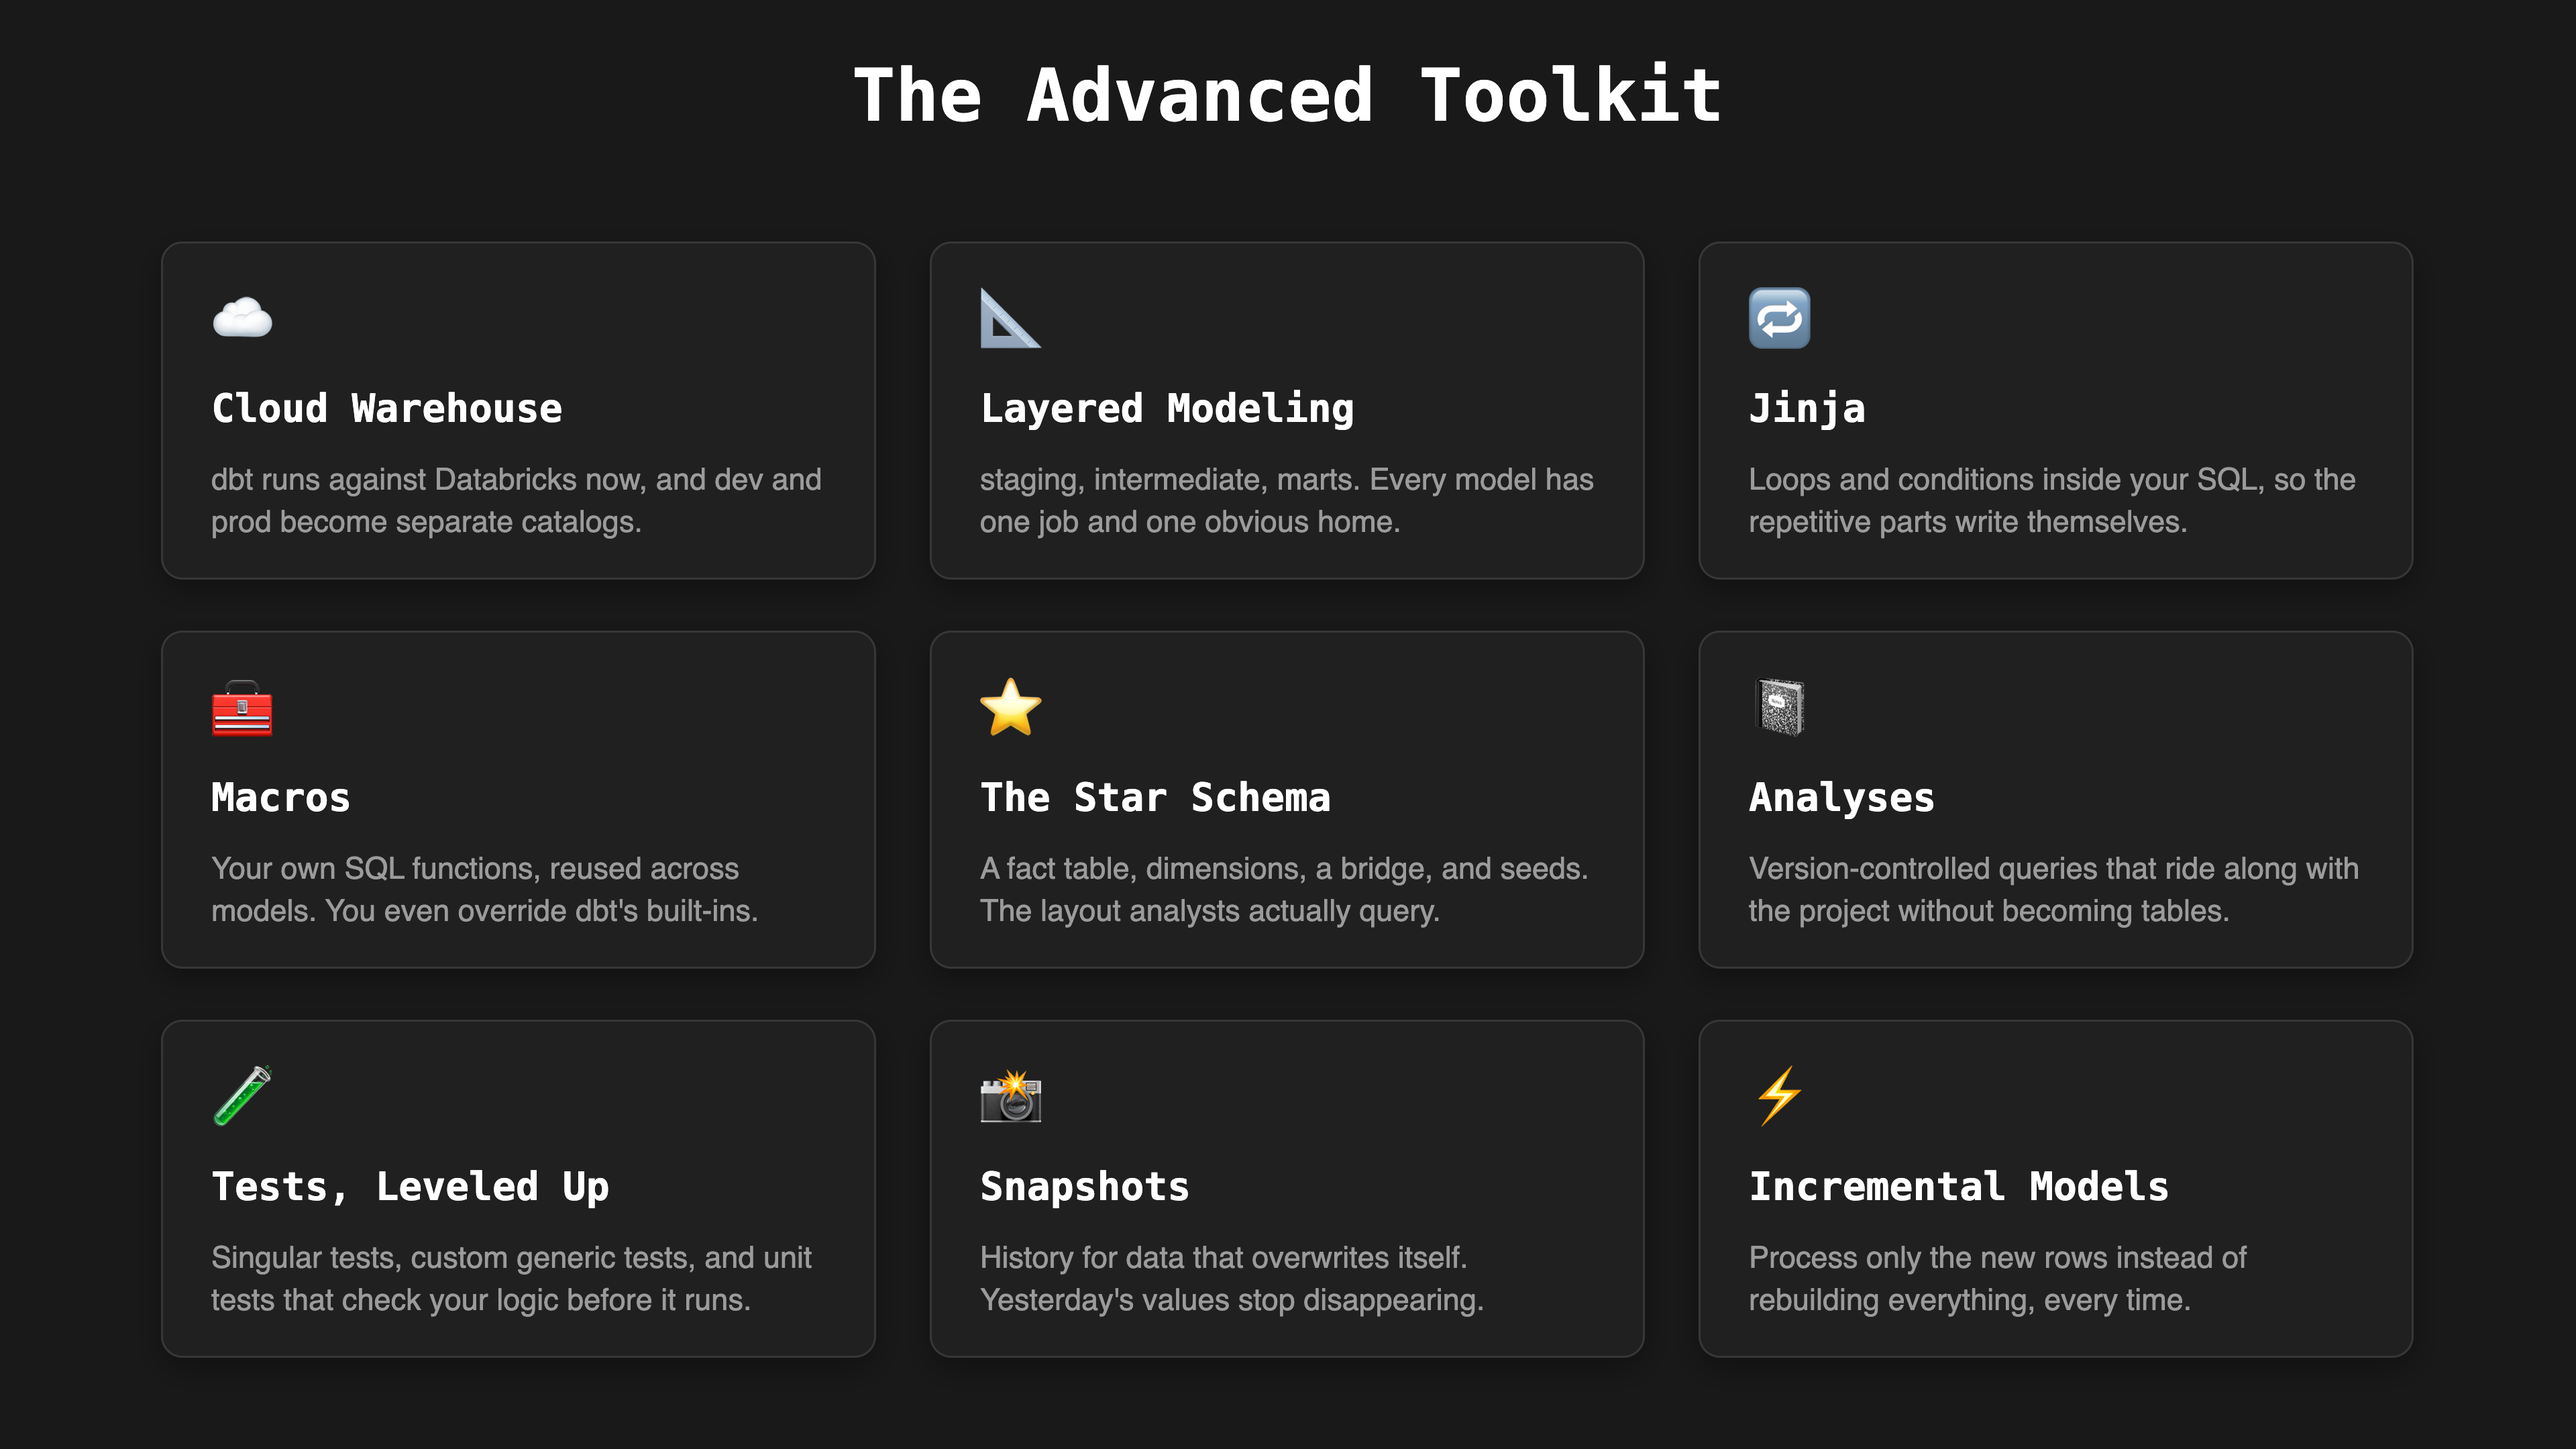
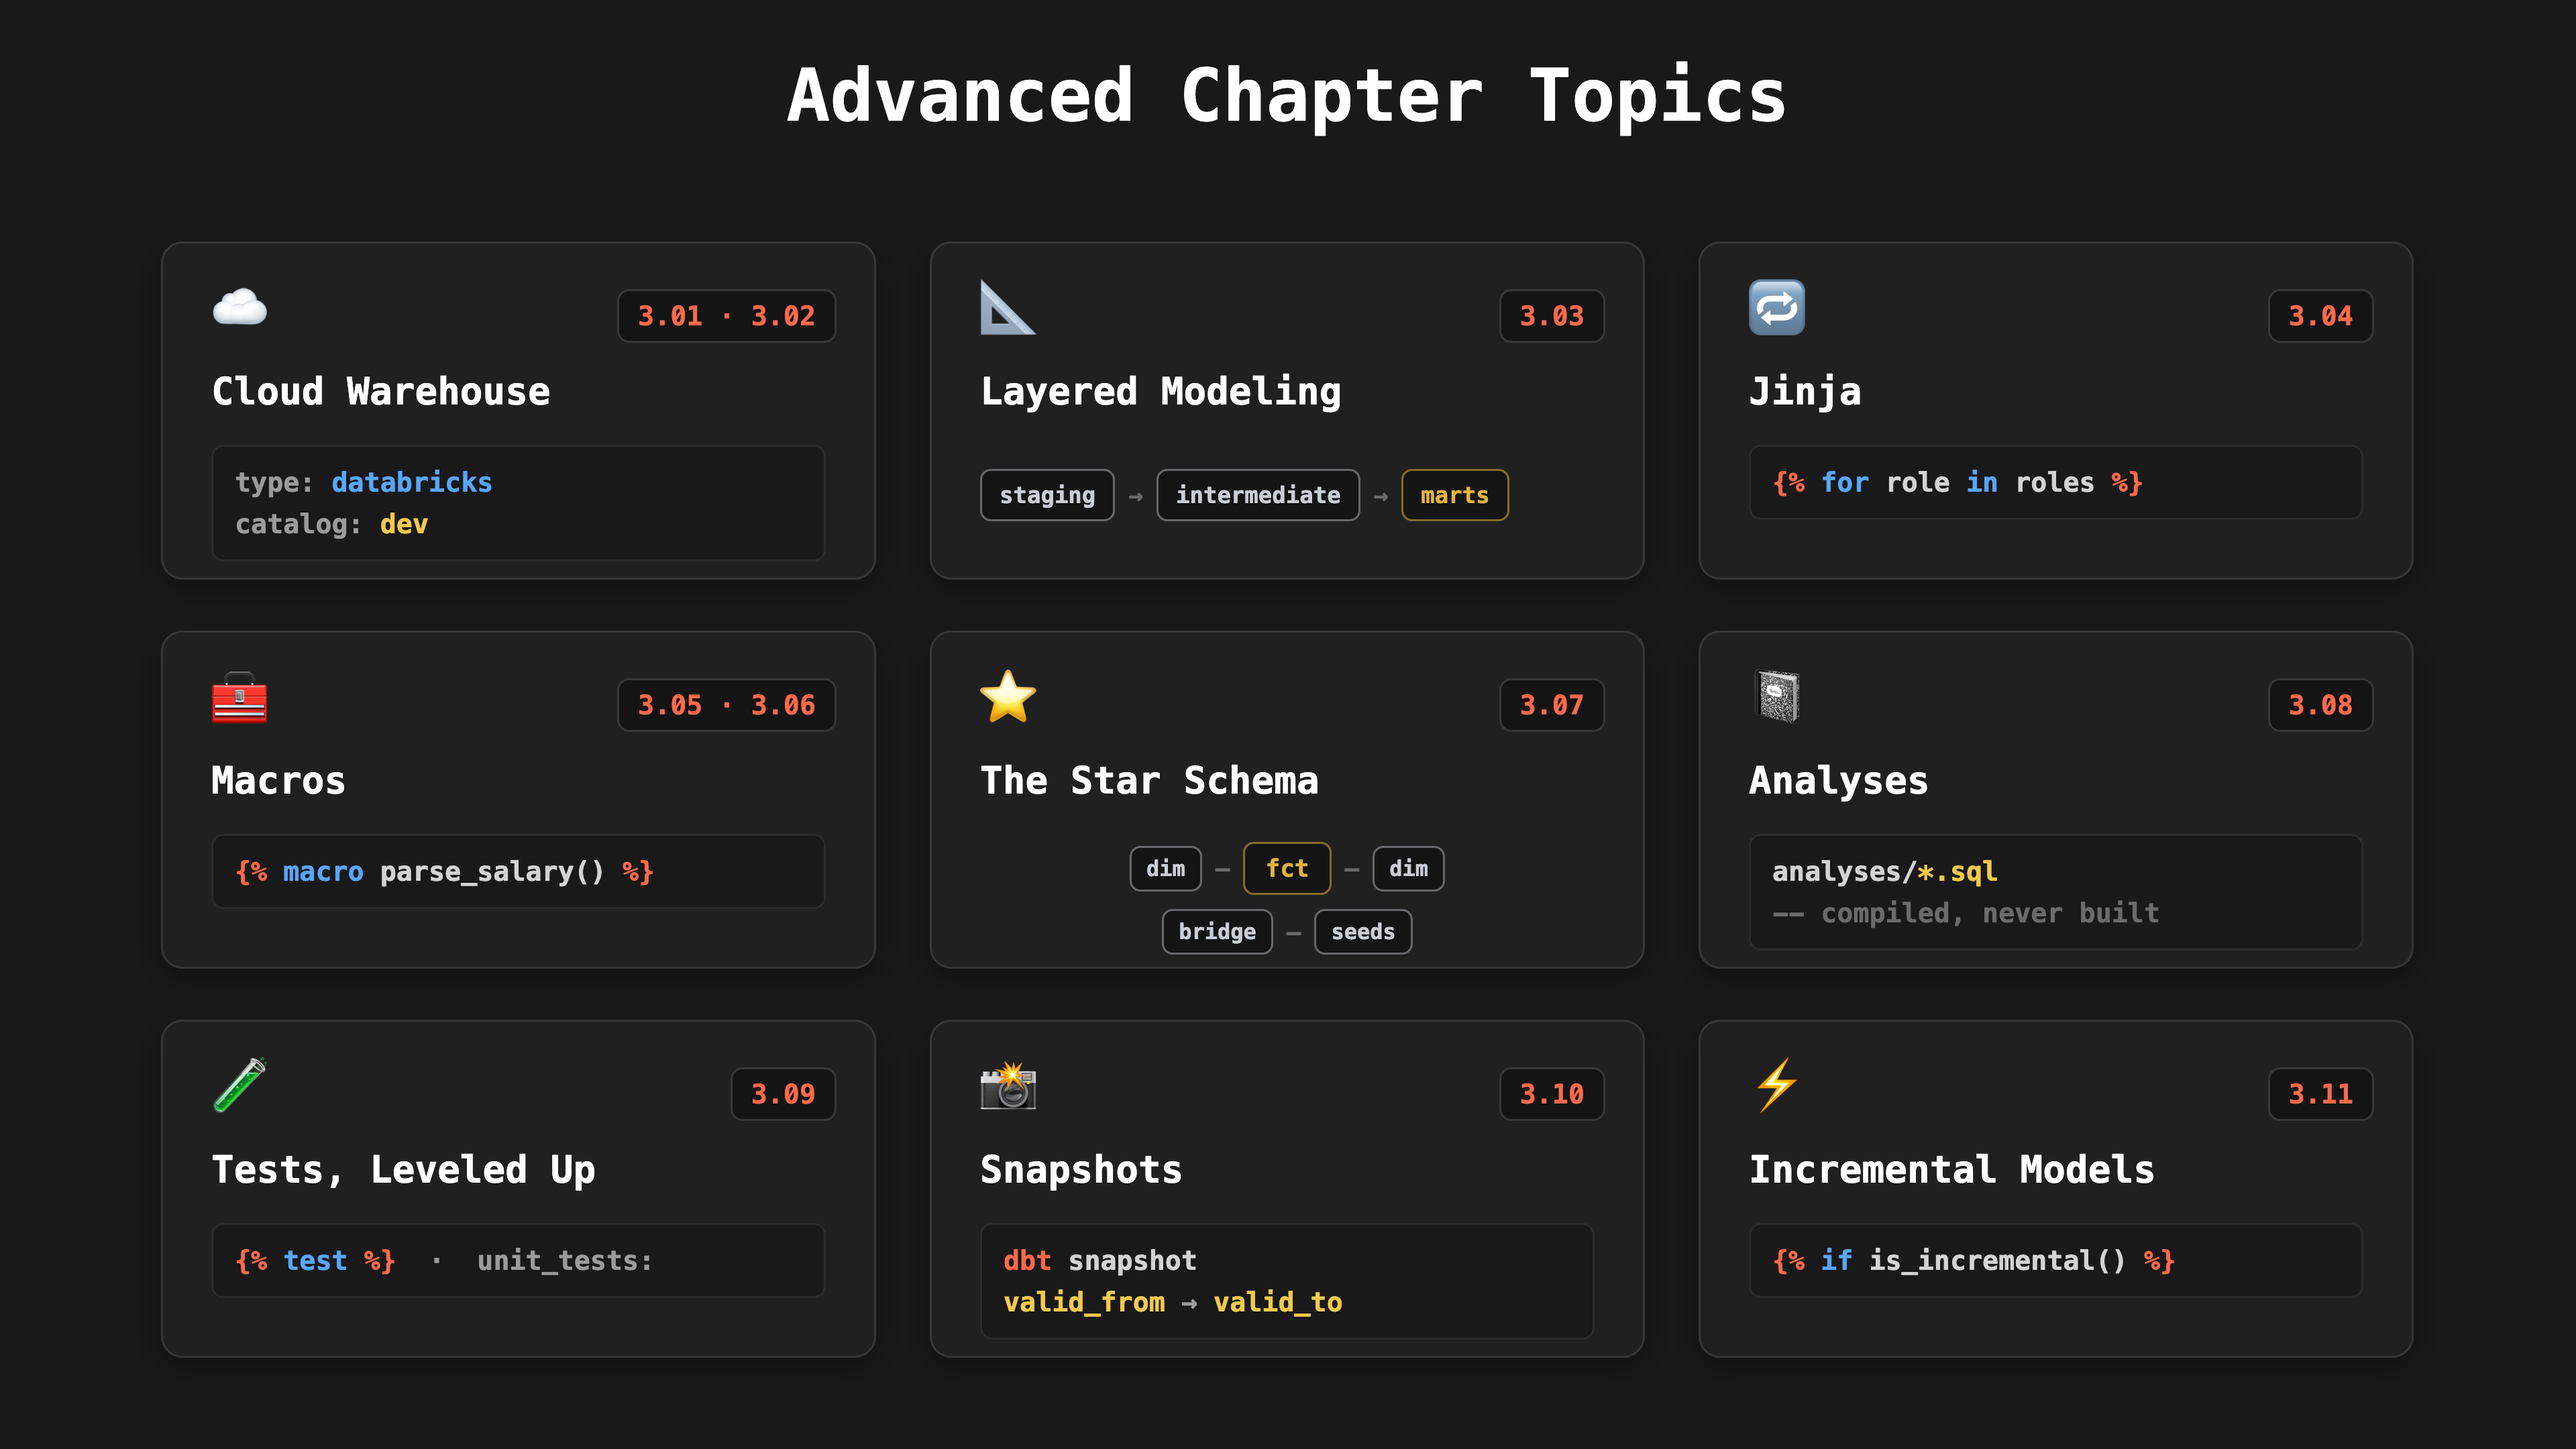
toolkit diagram redesign (Luke): Advanced Chapter Topics - lesson-number chips on every card, code/glyph motifs replace prose subs

diff --git a/resources/diagrams/3.01_toolkit.html b/resources/diagrams/3.01_toolkit.html
@@ -3,7 +3,7 @@
 <html>
 <head>
 <meta charset="utf-8">
-<title>The Advanced Toolkit</title>
+<title>Advanced Chapter Topics</title>
 <style>
   @import url('https://fonts.googleapis.com/css2?family=Source+Code+Pro:wght@400;600;700;800&display=swap');
   :root{
@@ -11,6 +11,8 @@
     --text:#D3D3D3; --muted:#9B9B9B; --faint:#6B6B6B;
     --dbt:#FF694B; --duck:#F2C94C; --blue:#58A6FF;
     --ok:#57AB5A; --err:#E5534B;
+    --silverT:#C9CED6; --silverB:#3a3d42;
+    --goldT:#E3B341;  --goldB:#4a3a10;
     --mono:'Source Code Pro',ui-monospace,'SF Mono',Menlo,Consolas,monospace;
     --sans:ui-sans-serif,-apple-system,'Segoe UI',Helvetica,Arial,sans-serif;
   }
@@ -20,68 +22,92 @@
     font-family:var(--mono);font-size:54px;font-weight:700;color:#FFFFFF}
   .card{position:absolute;box-sizing:border-box;width:533px;height:252px;border-radius:16px;
     background:var(--panel);border:1.5px solid var(--line);box-shadow:0 8px 22px rgba(0,0,0,.35)}
-  .card .emo{position:absolute;left:36px;top:34px;font-size:46px;line-height:1}
-  .card .name{position:absolute;left:36px;top:106px;right:30px;
-    font-family:var(--mono);font-size:29px;font-weight:800;color:#FFFFFF;white-space:nowrap}
-  .card .sub{position:absolute;left:36px;top:160px;right:34px;
-    font-family:var(--sans);font-size:22.5px;line-height:1.4;color:var(--muted)}
-  .card .name b{color:var(--dbt)}
+  .card .emo{position:absolute;left:36px;top:28px;font-size:42px;line-height:1}
+  .card .lnum{position:absolute;right:28px;top:34px;font-family:var(--mono);font-size:20px;font-weight:700;
+    color:var(--dbt);background:#141414;border:1.5px solid var(--line);border-radius:9px;padding:7px 14px;white-space:nowrap}
+  .card .name{position:absolute;left:36px;top:94px;right:30px;
+    font-family:var(--mono);font-size:28px;font-weight:800;color:#FFFFFF;white-space:nowrap}
+  .mini{position:absolute;left:36px;top:150px;right:36px;box-sizing:border-box;
+    background:#191919;border:1.5px solid #2b2b2b;border-radius:9px;padding:11px 16px;
+    font-family:var(--mono);font-size:20px;line-height:1.55;font-weight:600;color:var(--text);white-space:pre}
+  .j{color:var(--dbt)} .k{color:var(--blue)} .v{color:var(--duck)} .c{color:var(--faint)} .m{color:var(--muted)}
+  .chiprow{position:absolute;left:36px;top:160px;right:36px;display:flex;align-items:center;gap:10px;
+    font-family:var(--mono);font-weight:700}
+  .chip{font-size:17px;border-radius:8px;padding:8px 13px;background:#141414;border:1.5px solid var(--line);white-space:nowrap}
+  .chip.silver{color:var(--silverT);border-color:rgba(201,206,214,.45)}
+  .chip.gold{color:var(--goldT);border-color:rgba(227,179,65,.55)}
+  .chip.plain{color:var(--silverT);border-color:rgba(201,206,214,.45);font-size:16px;padding:6px 11px}
+  .arrow{color:var(--faint);font-size:18px}
 </style>
 </head>
 <body>
 <div class="stage">
 
-  <div class="title">The Advanced Toolkit</div>
+  <div class="title">Advanced Chapter Topics</div>
 
   <!-- row 1 -->
   <div class="card" style="left:120px;top:180px">
-    <div class="emo">☁</div>
+    <div class="emo">☁</div><div class="lnum">3.01 · 3.02</div>
     <div class="name">Cloud Warehouse</div>
-    <div class="sub">dbt runs against Databricks now, and dev and prod become separate catalogs.</div>
+    <div class="mini"><span class="m">type:</span> <span class="k">databricks</span>
+<span class="m">catalog:</span> <span class="v">dev</span></div>
   </div>
   <div class="card" style="left:693px;top:180px">
-    <div class="emo">📐</div>
+    <div class="emo">📐</div><div class="lnum">3.03</div>
     <div class="name">Layered Modeling</div>
-    <div class="sub">staging, intermediate, marts. Every model has one job and one obvious home.</div>
+    <div class="chiprow" style="top:168px">
+      <span class="chip silver">staging</span><span class="arrow">→</span>
+      <span class="chip silver">intermediate</span><span class="arrow">→</span>
+      <span class="chip gold">marts</span>
+    </div>
   </div>
   <div class="card" style="left:1266px;top:180px">
-    <div class="emo">🔁</div>
+    <div class="emo">🔁</div><div class="lnum">3.04</div>
     <div class="name">Jinja</div>
-    <div class="sub">Loops and conditions inside your SQL, so the repetitive parts write themselves.</div>
+    <div class="mini"><span class="j">{%</span> <span class="k">for</span> role <span class="k">in</span> roles <span class="j">%}</span></div>
   </div>
 
   <!-- row 2 -->
   <div class="card" style="left:120px;top:470px">
-    <div class="emo">🧰</div>
+    <div class="emo">🧰</div><div class="lnum">3.05 · 3.06</div>
     <div class="name">Macros</div>
-    <div class="sub">Your own SQL functions, reused across models. You even override dbt's built-ins.</div>
+    <div class="mini"><span class="j">{%</span> <span class="k">macro</span> parse_salary() <span class="j">%}</span></div>
   </div>
   <div class="card" style="left:693px;top:470px">
-    <div class="emo">⭐</div>
+    <div class="emo">⭐</div><div class="lnum">3.07</div>
     <div class="name">The Star Schema</div>
-    <div class="sub">A fact table, dimensions, a bridge, and seeds. The layout analysts actually query.</div>
+    <div class="chiprow" style="top:156px;justify-content:center">
+      <span class="chip plain">dim</span><span class="arrow">—</span>
+      <span class="chip gold" style="font-size:18px;padding:8px 15px">fct</span><span class="arrow">—</span>
+      <span class="chip plain">dim</span>
+    </div>
+    <div class="chiprow" style="top:206px;justify-content:center">
+      <span class="chip plain">bridge</span><span class="arrow">—</span><span class="chip plain">seeds</span>
+    </div>
   </div>
   <div class="card" style="left:1266px;top:470px">
-    <div class="emo">📓</div>
+    <div class="emo">📓</div><div class="lnum">3.08</div>
     <div class="name">Analyses</div>
-    <div class="sub">Version-controlled queries that ride along with the project without becoming tables.</div>
+    <div class="mini">analyses/<span class="v">*.sql</span>
+<span class="c">-- compiled, never built</span></div>
   </div>
 
   <!-- row 3 -->
   <div class="card" style="left:120px;top:760px">
-    <div class="emo">🧪</div>
+    <div class="emo">🧪</div><div class="lnum">3.09</div>
     <div class="name">Tests, Leveled Up</div>
-    <div class="sub">Singular tests, custom generic tests, and unit tests that check your logic before it runs.</div>
+    <div class="mini"><span class="j">{%</span> <span class="k">test</span> <span class="j">%}</span>  <span class="m">·</span>  <span class="m">unit_tests:</span></div>
   </div>
   <div class="card" style="left:693px;top:760px">
-    <div class="emo">📸</div>
+    <div class="emo">📸</div><div class="lnum">3.10</div>
     <div class="name">Snapshots</div>
-    <div class="sub">History for data that overwrites itself. Yesterday's values stop disappearing.</div>
+    <div class="mini"><span class="j">dbt</span> snapshot
+<span class="v">valid_from</span> <span class="m">→</span> <span class="v">valid_to</span></div>
   </div>
   <div class="card" style="left:1266px;top:760px">
-    <div class="emo">⚡</div>
+    <div class="emo">⚡</div><div class="lnum">3.11</div>
     <div class="name">Incremental Models</div>
-    <div class="sub">Process only the new rows instead of rebuilding everything, every time.</div>
+    <div class="mini"><span class="j">{%</span> <span class="k">if</span> is_incremental() <span class="j">%}</span></div>
   </div>
 
 </div>
